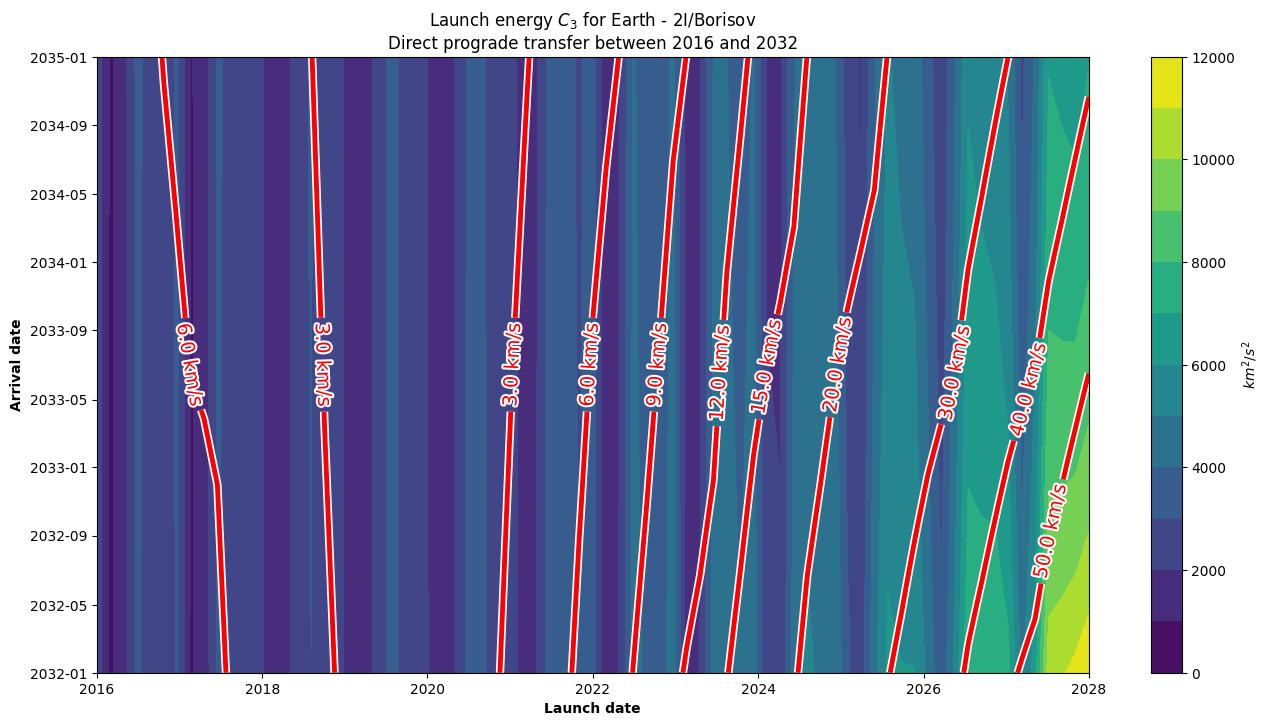
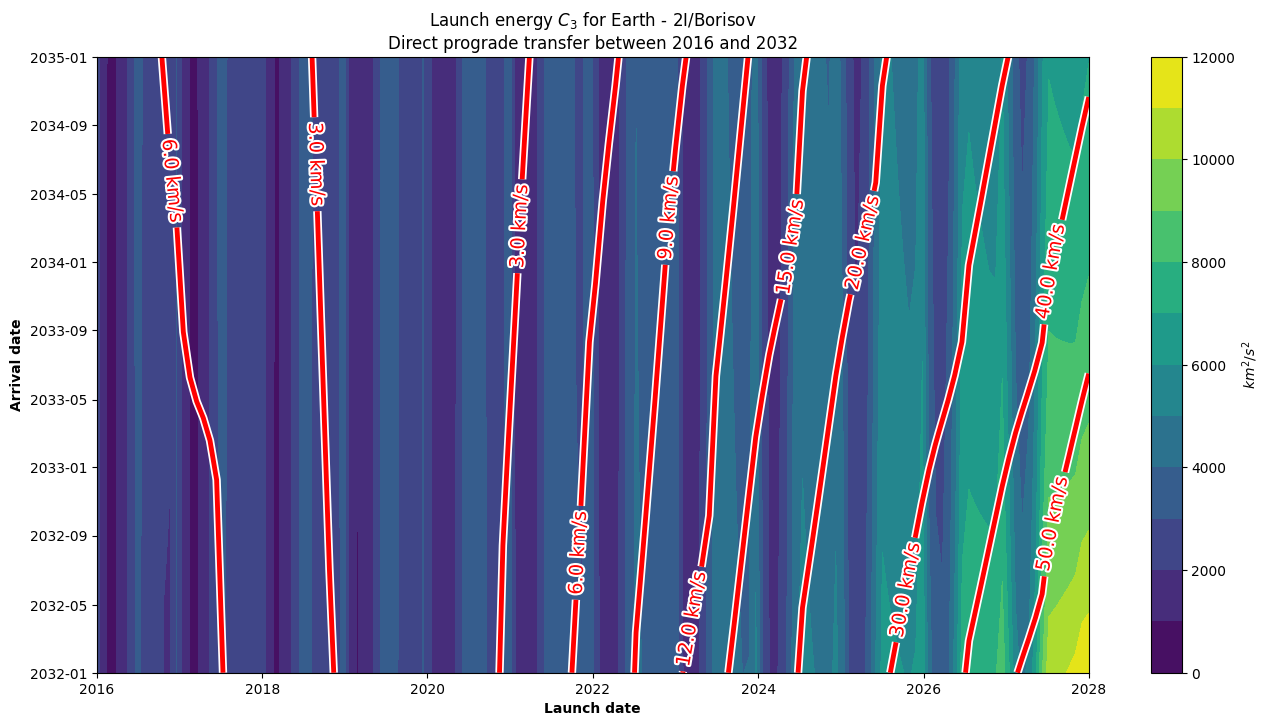
feat: update porkchop plots

diff --git a/bin/borisov_porkchop.py b/bin/borisov_porkchop.py
@@ -1,31 +1,24 @@
 from astropy import units as u
-from astropy.time import Time
 from matplotlib import pyplot as plt
 import numpy as np
 
-from poliastro.bodies import Earth, Sun
 from poliastro.ephem import Ephem
-from poliastro.twobody import Orbit
+from poliastro.frames import Planes
 from poliastro.plotting.porkchop import PorkchopPlotter
 from poliastro.util import time_range
 
 
-def solve_porkchop(prograde):
-    min_launch_date = Time("2016-01-01", scale="tdb")
-    max_launch_date = Time("2028-01-01", scale="tdb")
-    min_arrival_date = Time("2032-01-01", scale="tdb")
-    max_arrival_date = Time("2035-01-01", scale="tdb")
+def solve_porkchop(prograde=True):
+    # Declare the launch and arrival spans
+    N = 150
+    launch_span = time_range("2016-01-01", end="2028-01-01", num_values=N, scale="tdb")
+    arrival_span = time_range("2032-01-01", end="2035-01-01", num_values=N, scale="tdb")
 
-    launch_span = time_range(min_launch_date, spacing=1*u.day, end=max_launch_date, scale="tdb")
-    arrival_span = time_range(min_arrival_date, spacing=1*u.day, end=max_arrival_date, scale="tdb")
-    epochs = time_range(min_launch_date, spacing=1*u.day, end=max_arrival_date, scale="tdb")
+    # Load the ephemerides for the Earth and 'Oumuamua
+    earth = Ephem.from_csv("bin/ephem/earth.csv", plane=Planes.EARTH_ECLIPTIC)
+    borisov = Ephem.from_csv("bin/ephem/borisov.csv", plane=Planes.EARTH_ECLIPTIC)
 
-
-    earth = Ephem.from_body(Earth, epochs=epochs)
-    borisov = Ephem.from_horizons("C/2019 Q4", epochs={'start': "2016-01-01",
-                                                    'stop': '2053-01-01',
-                                                    'step': '1d'})
-
+    # Compute the porkchop plot
     return PorkchopPlotter(
         earth, borisov, launch_span, arrival_span, prograde=prograde
     )
@@ -70,6 +63,5 @@ def solve_launch_velocity():
         plt.savefig(f"fig/static/borisov/direct-{inclination}-transfer-porkchop-avl.png", bbox_inches="tight")
 
 if __name__ == "__main__":
-    solve_porkchop(prograde=True)
     solve_launch_energy()
-    #solve_launch_velocity()
+    solve_launch_velocity()

diff --git a/bin/oumuamua_porkchop.py b/bin/oumuamua_porkchop.py
@@ -15,7 +15,7 @@ def solve_porkchop(prograde=True):
     # Declare the launch and arrival spans
     #launch_span = time_range("2016-01-01", spacing=1*u.day, end="2028-01-01", scale="tdb")
     #arrival_span = time_range("2032-01-01", spacing=1*u.day, end="2035-01-01", scale="tdb")
-    N = 250
+    N = 150
     launch_span = time_range("2016-01-01", end="2028-01-01", num_values=N, scale="tdb")
     arrival_span = time_range("2032-01-01", end="2035-01-01", num_values=N, scale="tdb")
 
@@ -73,5 +73,5 @@ def solve_arrival_velocity():
 
 
 if __name__ == "__main__":
-    #solve_launch_energy()
+    solve_launch_energy()
     solve_arrival_velocity()
